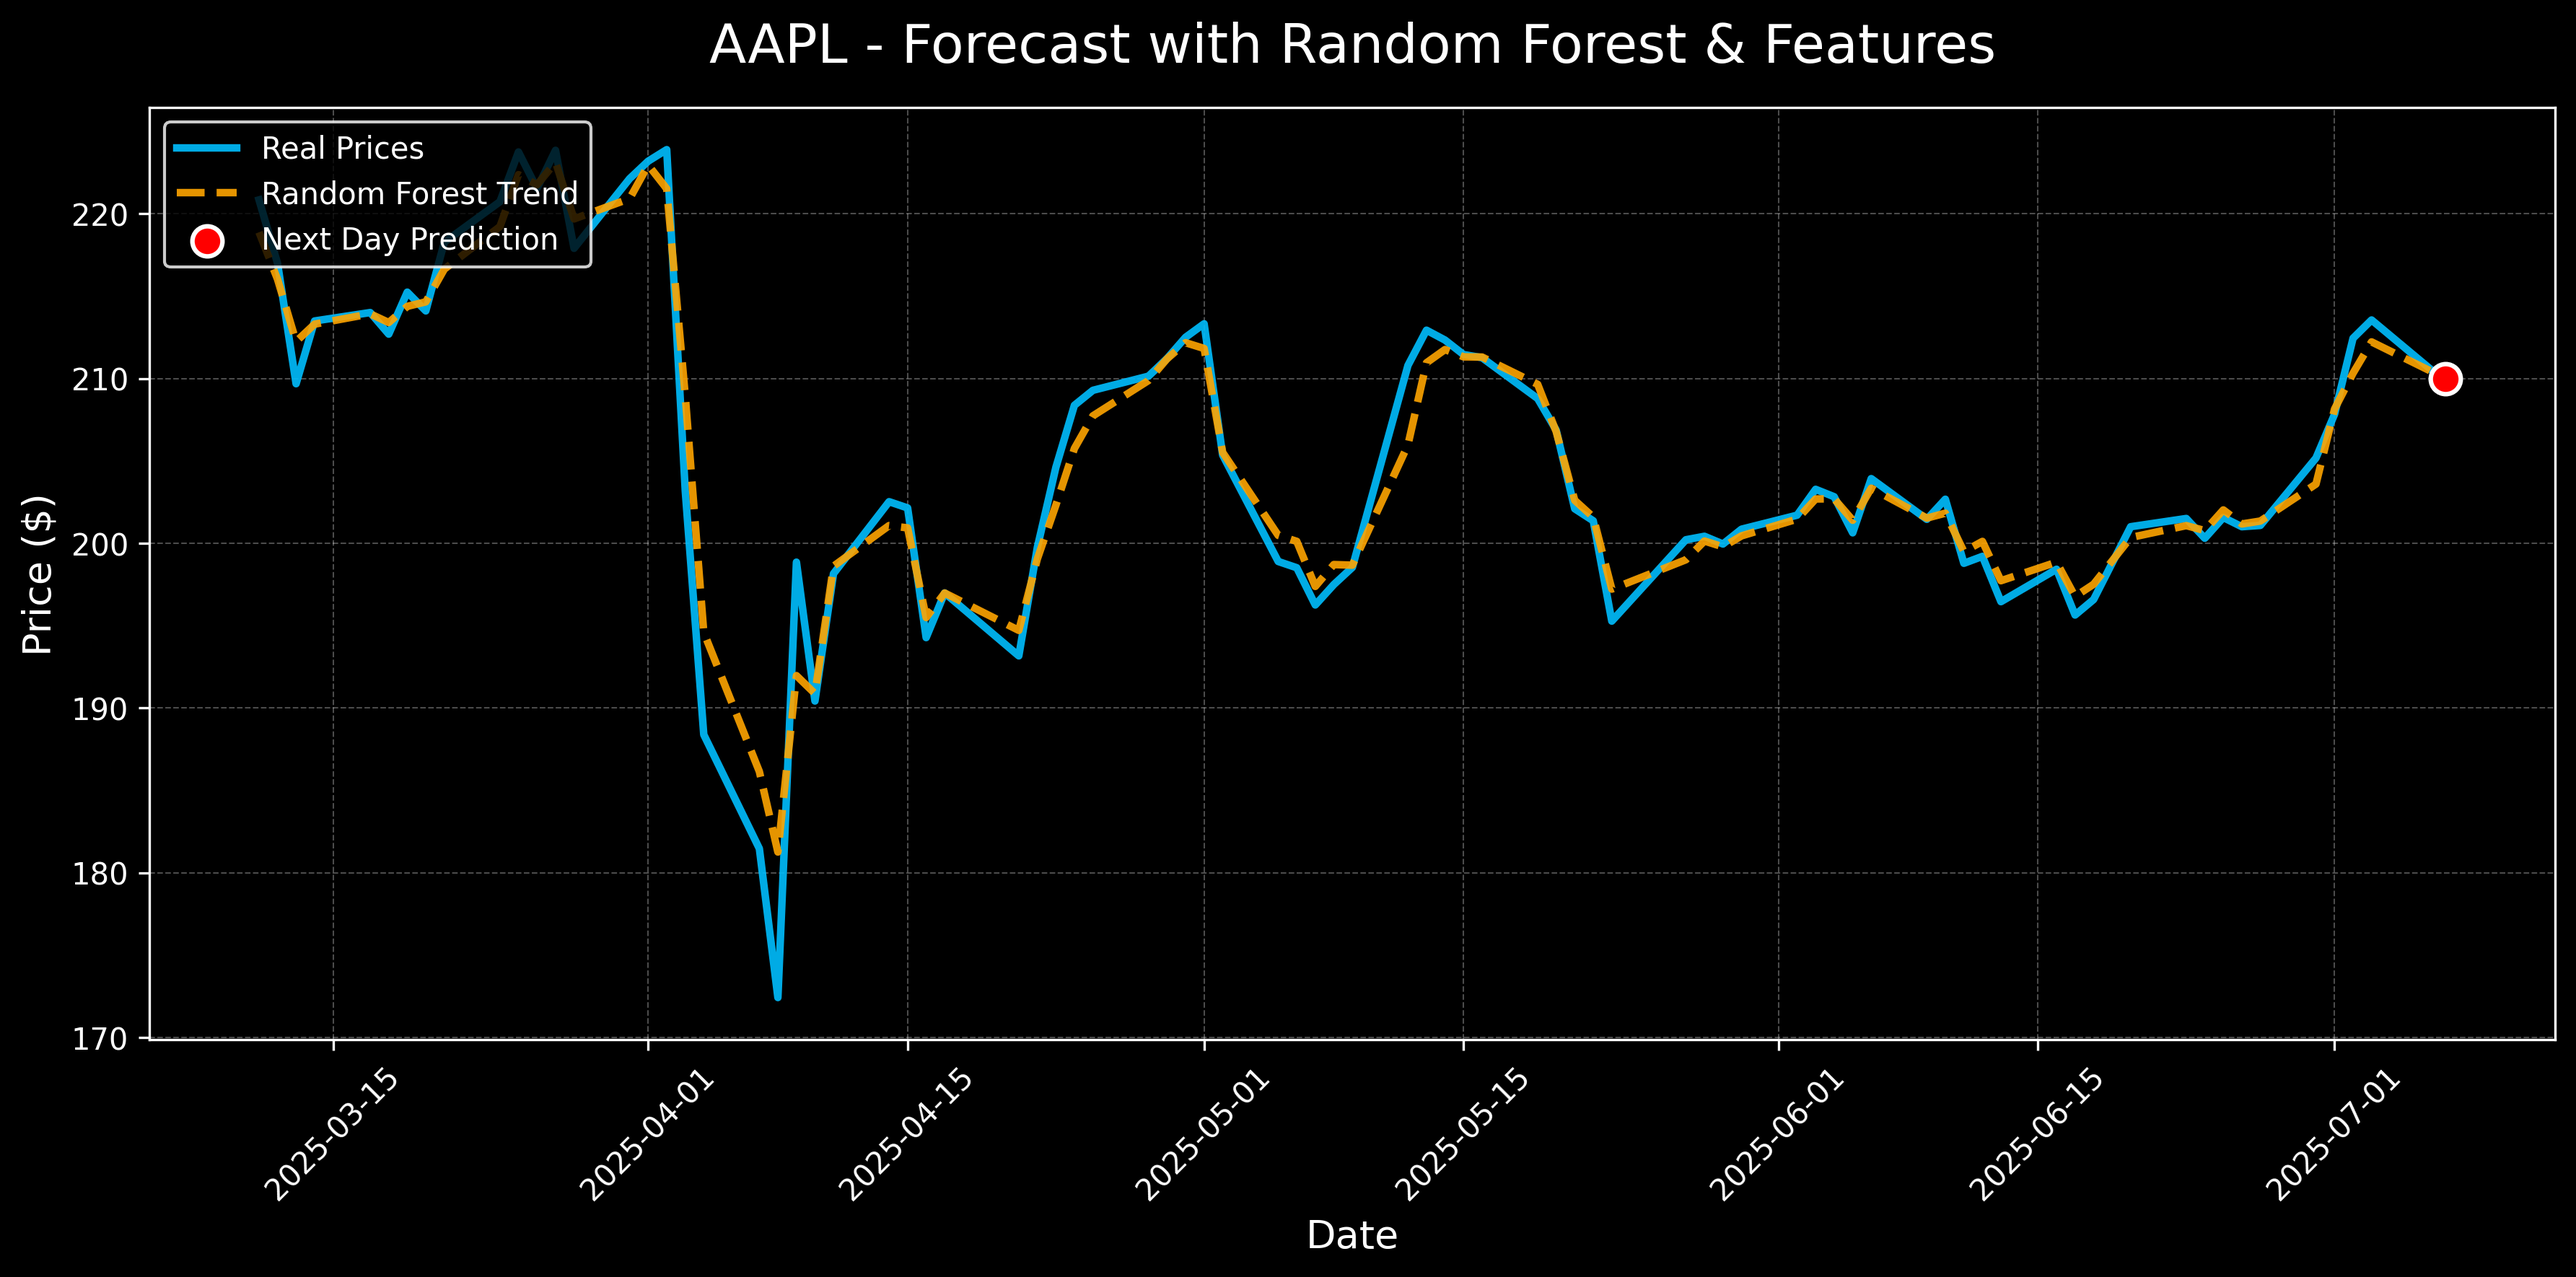
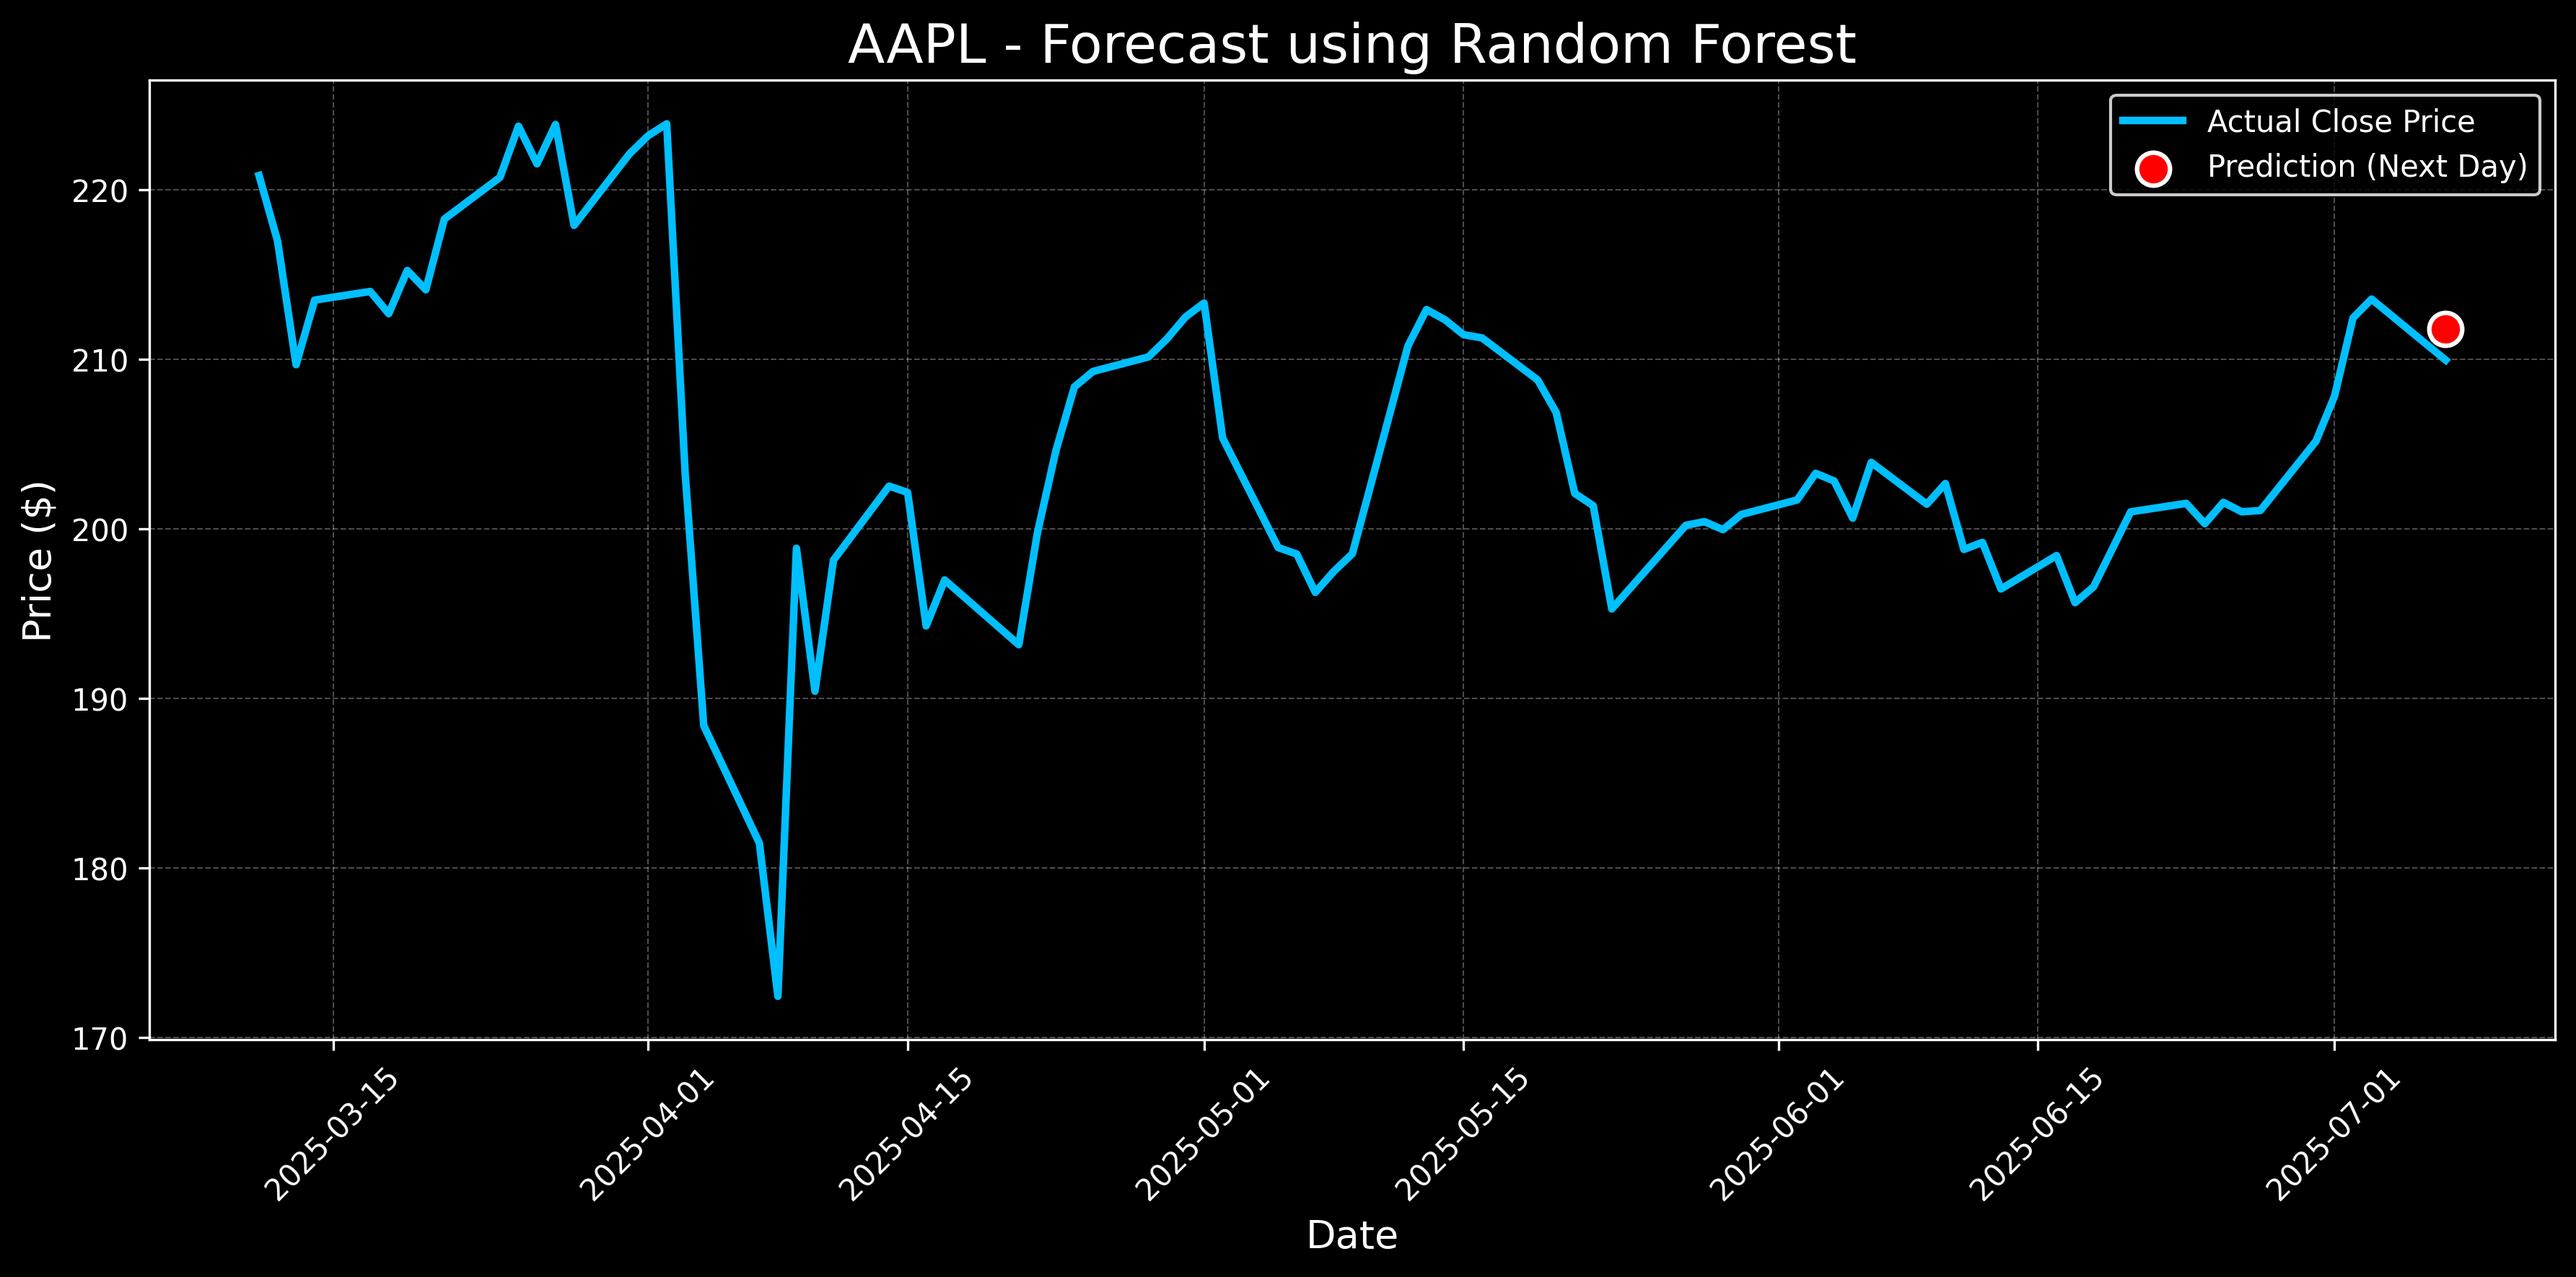
update prediction summary

diff --git a/src/components/StockResult.tsx b/src/components/StockResult.tsx
@@ -3,6 +3,9 @@ import Image from "next/image";
 type Props = {
   today: number;
   next: number;
+  probUp: number;
+  probDown: number;
+  score: number;
   news: {
     title: string;
     url: string;
@@ -17,6 +20,9 @@ type Props = {
 export default function StockResult({
   today,
   next,
+  probUp,
+  probDown,
+  score,
   news,
   imagePrice,
   imageNews,
@@ -24,19 +30,25 @@ export default function StockResult({
   ticker,
 }: Props) {
   return (
-    <div className="w-full max-w-5xl mx-auto mt-10 px-4 space-y-10 text-gray-200">
-      <h2 className="text-2xl md:text-3xl font-light text-center">
-        {ticker} Stock Analysis
-      </h2>
+    <div className="w-full max-w-5xl mx-auto mt-10 px-4 space-y-12 text-gray-200 font-light tracking-wide">
+      <h2 className="text-2xl md:text-3xl text-center">{ticker} Stock Analysis</h2>
 
-      <div className="flex flex-col md:flex-row md:justify-around gap-6 text-base text-center">
-        <p><span className="text-gray-400">Today&#39;s Price:</span> ${today.toFixed(2)}</p>
-        <p><span className="text-gray-400">Next Day Prediction:</span> ${next.toFixed(2)}</p>
-        <p><span className="text-gray-400">News-based Prediction:</span> {news.length} articles</p>
-      </div>
+      {/* Resumo de Previsões */}
+      <section className="bg-zinc-900 border border-zinc-700 rounded-xl p-6 shadow-xl">
+        <h3 className="text-xl text-white mb-4">Prediction Summary</h3>
+        <div className="grid grid-cols-1 sm:grid-cols-2 lg:grid-cols-3 gap-4 text-base text-gray-300">
+          <p><span className="text-gray-400">Today:</span> ${today.toFixed(2)}</p>
+          <p><span className="text-gray-400">Predicted:</span> ${next.toFixed(2)}</p>
+          <p><span className="text-gray-400">Model Accuracy:</span> {(score * 100).toFixed(2)}%</p>
+          <p><span className="text-gray-400">Probability Up:</span> {(probUp * 100).toFixed(2)}%</p>
+          <p><span className="text-gray-400">Probability Down:</span> {(probDown * 100).toFixed(2)}%</p>
+          <p><span className="text-gray-400">News Articles:</span> {news.length}</p>
+        </div>
+      </section>
 
-      <div className="space-y-6">
-        <h3 className="text-lg font-light border-b border-gray-700 pb-2">Historical Price Graph</h3>
+      {/* Gráfico de Preço */}
+      <section className="space-y-6">
+        <h3 className="text-lg border-b border-gray-700 pb-2">Historical Price Graph</h3>
         <Image
           src={imagePrice}
           alt="Price chart"
@@ -44,10 +56,11 @@ export default function StockResult({
           width={800}
           height={500}
         />
-      </div>
+      </section>
 
-      <div className="space-y-6">
-        <h3 className="text-lg font-light border-b border-gray-700 pb-2">Sentiment Graph</h3>
+      {/* Gráfico de Sentimento */}
+      <section className="space-y-6">
+        <h3 className="text-lg border-b border-gray-700 pb-2">Sentiment Graph</h3>
         <Image
           src={imageNews}
           alt="News chart"
@@ -55,17 +68,16 @@ export default function StockResult({
           width={800}
           height={500}
         />
-      </div>
+      </section>
 
+      {/* Indicadores Técnicos */}
       {imageTechnical && (
-        <div className="space-y-6">
-          <h3 className="text-lg font-light border-b border-gray-700 pb-2">
-            Technical Indicators
-          </h3>
+        <section className="space-y-6">
+          <h3 className="text-lg border-b border-gray-700 pb-2">Technical Indicators</h3>
           <p className="text-sm text-gray-400 leading-relaxed">
-            This chart shows two common technical indicators: <span className="text-gray-300 font-medium">Bollinger Bands</span> and <span className="text-gray-300 font-medium">RSI (Relative Strength Index)</span>. 
-            Bollinger Bands help visualize price volatility and potential overbought/oversold conditions, 
-            while RSI indicates momentum and possible trend reversals. Values above 70 suggest overbought conditions; below 30, oversold.
+            This chart shows <span className="text-gray-300">Bollinger Bands</span> and <span className="text-gray-300">RSI (Relative Strength Index)</span>. 
+            Bollinger Bands help visualize volatility and potential overbought/oversold zones. 
+            RSI suggests momentum and trend shifts — above 70 means overbought; below 30 means oversold.
           </p>
           <Image
             src={imageTechnical}
@@ -74,11 +86,12 @@ export default function StockResult({
             width={800}
             height={500}
           />
-        </div>
+        </section>
       )}
 
-      <div className="space-y-6">
-        <h3 className="text-lg font-light border-b border-gray-700 pb-2">News Overview</h3>
+      {/* Notícias */}
+      <section className="space-y-6">
+        <h3 className="text-lg border-b border-gray-700 pb-2">News Overview</h3>
         <div className="grid md:grid-cols-2 gap-6">
           {news.map((item, index) => (
             <div key={index} className="p-4 border border-gray-700 rounded-lg bg-[#1e1f24]">
@@ -96,7 +109,7 @@ export default function StockResult({
             </div>
           ))}
         </div>
-      </div>
+      </section>
     </div>
   );
 }

diff --git a/src/app/result/[ticker]/page.tsx b/src/app/result/[ticker]/page.tsx
@@ -13,6 +13,9 @@ type StockResultData = {
   ticker: string;
   today: number;
   next: number;
+  probUp: number;
+  probDown: number;
+  score: number;
   news: NewsArticle[];
   imagePrice: string;
   imageTechnical: string;

diff --git a/python/model.py b/python/model.py
@@ -2,7 +2,10 @@ import yfinance as yf
 import matplotlib.pyplot as plt
 import os
 import numpy as np
-from sklearn.ensemble import RandomForestRegressor
+import pandas as pd
+from sklearn.ensemble import RandomForestClassifier
+from sklearn.calibration import CalibratedClassifierCV
+from sklearn.model_selection import train_test_split
 
 def train_model(ticker):
     df = yf.download(ticker, period="90d", auto_adjust=False)
@@ -10,61 +13,64 @@ def train_model(ticker):
         raise Exception("Insufficient data for ticker.")
 
     df = df.reset_index()
-    df['Days'] = np.arange(len(df))
+    df['Return'] = df['Close'].pct_change()
+    df['Target'] = (df['Return'].shift(-1) > 0).astype(int)
     df['MA5'] = df['Close'].rolling(window=5).mean()
     df['MA10'] = df['Close'].rolling(window=10).mean()
     df['Volume'] = df['Volume'] / 1e6
+    df['Volatility'] = df['Close'].rolling(window=5).std()
     df = df.dropna()
 
-    X = df[['Days', 'MA5', 'MA10', 'Volume']].values.astype(np.float64)
-    y = df['Close'].values.astype(np.float64).ravel()
+    X = df[['MA5', 'MA10', 'Volume', 'Volatility']]
+    y = df['Target']
 
-    model = RandomForestRegressor(n_estimators=100, random_state=42)
-    model.fit(X, y)
+    X_train, X_test, y_train, y_test = train_test_split(X, y, test_size=0.2, random_state=42)
 
-    last_row = df.iloc[-1]
-    next_input = np.array([
-        last_row['Days'] + 1,
-        last_row['MA5'],
-        last_row['MA10'],
-        last_row['Volume']
-    ], dtype=np.float64).reshape(1, -1)
+    clf = RandomForestClassifier(n_estimators=100, random_state=42)
+    calibrated = CalibratedClassifierCV(clf, method='sigmoid', cv=3)
+    calibrated.fit(X_train, y_train)
 
-    next_price = model.predict(next_input)[0]
-    today_price = y[-1]
+    probas = calibrated.predict_proba(X_test)
+    prob_up = float(np.mean(probas[:, 1]))
+    prob_down = float(np.mean(probas[:, 0]))
+    score = float(calibrated.score(X_test, y_test))
+
+    today_price = float(df['Close'].iloc[-1])
+    next_price = float(today_price * (1 + df['Return'].tail(5).mean()))
 
     img_path = f"public/images/{ticker}_price.png"
     os.makedirs(os.path.dirname(img_path), exist_ok=True)
 
-    # Estilo escuro e moderno
+    # Gráfico
     plt.style.use("dark_background")
     fig, ax = plt.subplots(figsize=(12, 6), facecolor='black')
     fig.patch.set_facecolor('black')
 
-    ax.plot(df['Date'], y, label='Real Prices', color='#00BFFF', linewidth=2.5, alpha=0.9)
-    ax.plot(df['Date'], model.predict(X), linestyle='--', label='Random Forest Trend', color='orange', linewidth=2.5, alpha=0.9)
-
-    # Ponto da previsão com destaque visual
+    ax.plot(df['Date'], df['Close'], label='Actual Close Price', color='#00BFFF', linewidth=2.5)
     ax.scatter(
         df['Date'].iloc[-1], next_price,
-        color='red', edgecolor='white',
-        label='Next Day Prediction',
-        zorder=10, s=100, linewidths=1.5
+        color='red', edgecolor='white', linewidths=1.5,
+        label='Prediction (Next Day)', zorder=10, s=120
     )
 
-    ax.set_title(f"{ticker} - Forecast with Random Forest & Features", fontsize=18, color='white', weight='regular', pad=15)
+    ax.set_title(f"{ticker} - Forecast using Random Forest", fontsize=18, color='white')
     ax.set_xlabel("Date", fontsize=13, color='white')
     ax.set_ylabel("Price ($)", fontsize=13, color='white')
-
     ax.tick_params(colors='white', labelsize=10)
     ax.grid(True, linestyle='--', linewidth=0.5, alpha=0.3)
+    ax.legend(facecolor='black', edgecolor='white', labelcolor='white', fontsize=10)
 
-    ax.legend(facecolor='black', edgecolor='white', labelcolor='white', fontsize=10, loc='upper left')
-
-    plt.xticks(rotation=45, color='white', fontsize=10)
-    plt.yticks(color='white', fontsize=10)
+    plt.xticks(rotation=45, color='white')
+    plt.yticks(color='white')
     plt.tight_layout()
     plt.savefig(img_path, dpi=300, bbox_inches='tight', facecolor=fig.get_facecolor())
     plt.close()
 
-    return round(float(today_price), 2), round(float(next_price), 2), img_path
+    return {
+        "today_price": round(today_price, 2),
+        "next_price": round(next_price, 2),
+        "prob_up": round(prob_up, 4),
+        "prob_down": round(prob_down, 4),
+        "score": round(score, 4),
+        "graph_path": f"/images/{ticker}_price.png"
+    }

diff --git a/python/generate.py b/python/generate.py
@@ -3,7 +3,7 @@ import json
 from model import train_model
 from news_model import train_model_news
 from news_scraper import get_news_articles
-from technicals import generate_technical_chart  # certifique-se que o arquivo se chame technicals.py
+from technicals import generate_technical_chart
 
 def main():
     if len(sys.argv) < 2:
@@ -14,22 +14,23 @@ def main():
 
     try:
         # Rodar modelos
-        today_price, next_price, image_price = train_model(ticker)
+        model_result = train_model(ticker)
         news_prediction, news_image = train_model_news(ticker)
         technical_image = generate_technical_chart(ticker)
-
-        # Coletar notícias com sentimento
         news_articles = get_news_articles(ticker)
 
-        # Empacotar tudo
+        # Empacotar resultado
         result = {
             "ticker": ticker,
-            "today": today_price,
-            "next": next_price,
+            "today": model_result["today_price"],
+            "next": model_result["next_price"],
+            "probUp": model_result["prob_up"],
+            "probDown": model_result["prob_down"],
+            "score": model_result["score"],
             "prediction": news_prediction,
-            "imagePrice": f"/images/{ticker}_price.png",
-            "imageNews": f"/images/{ticker}_news.png",
-            "imageTechnical": f"/images/{ticker}_technical.png",
+            "imagePrice": model_result["graph_path"],
+            "imageNews": news_image,
+            "imageTechnical": technical_image,
             "news": news_articles
         }
 
